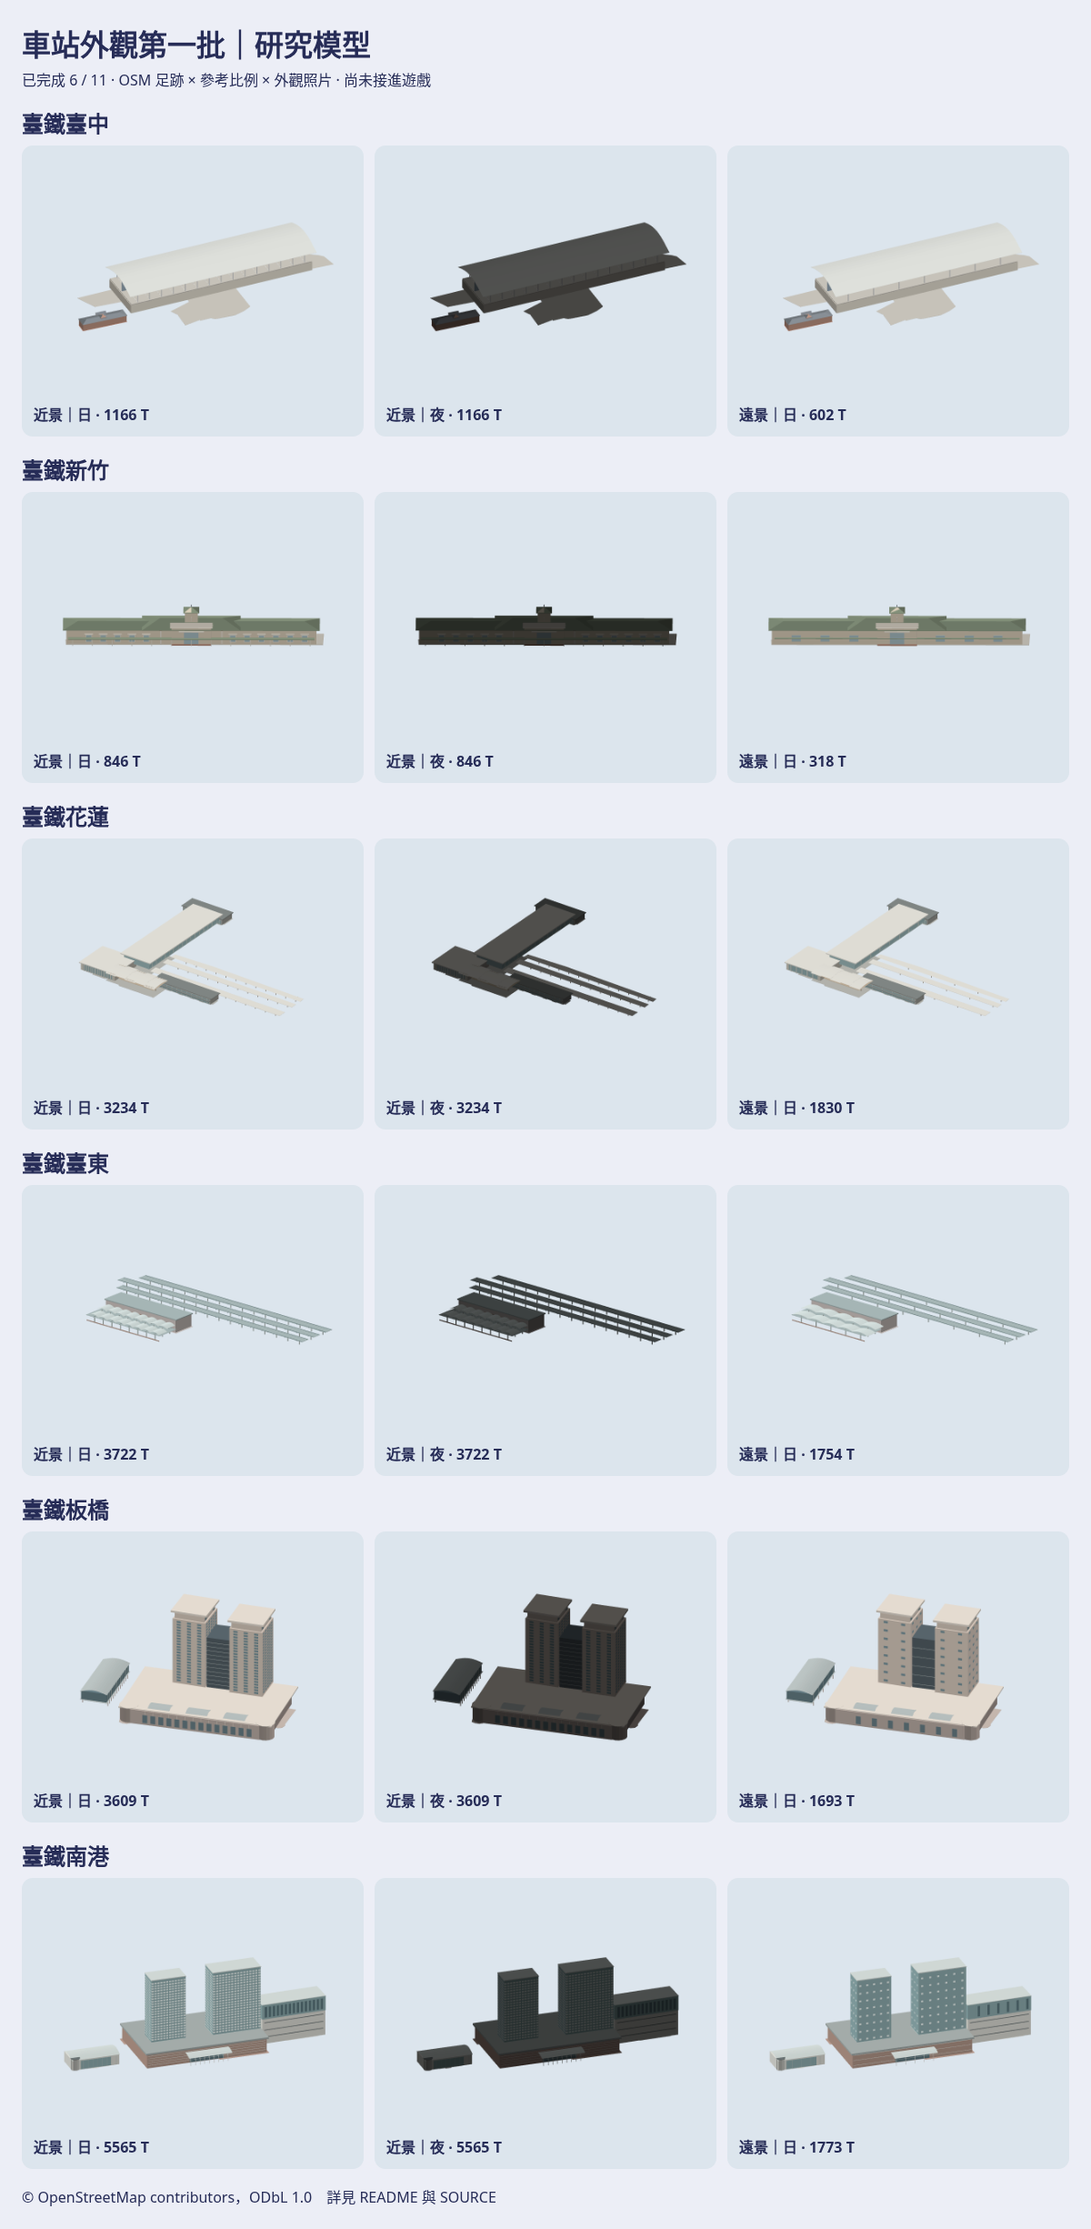
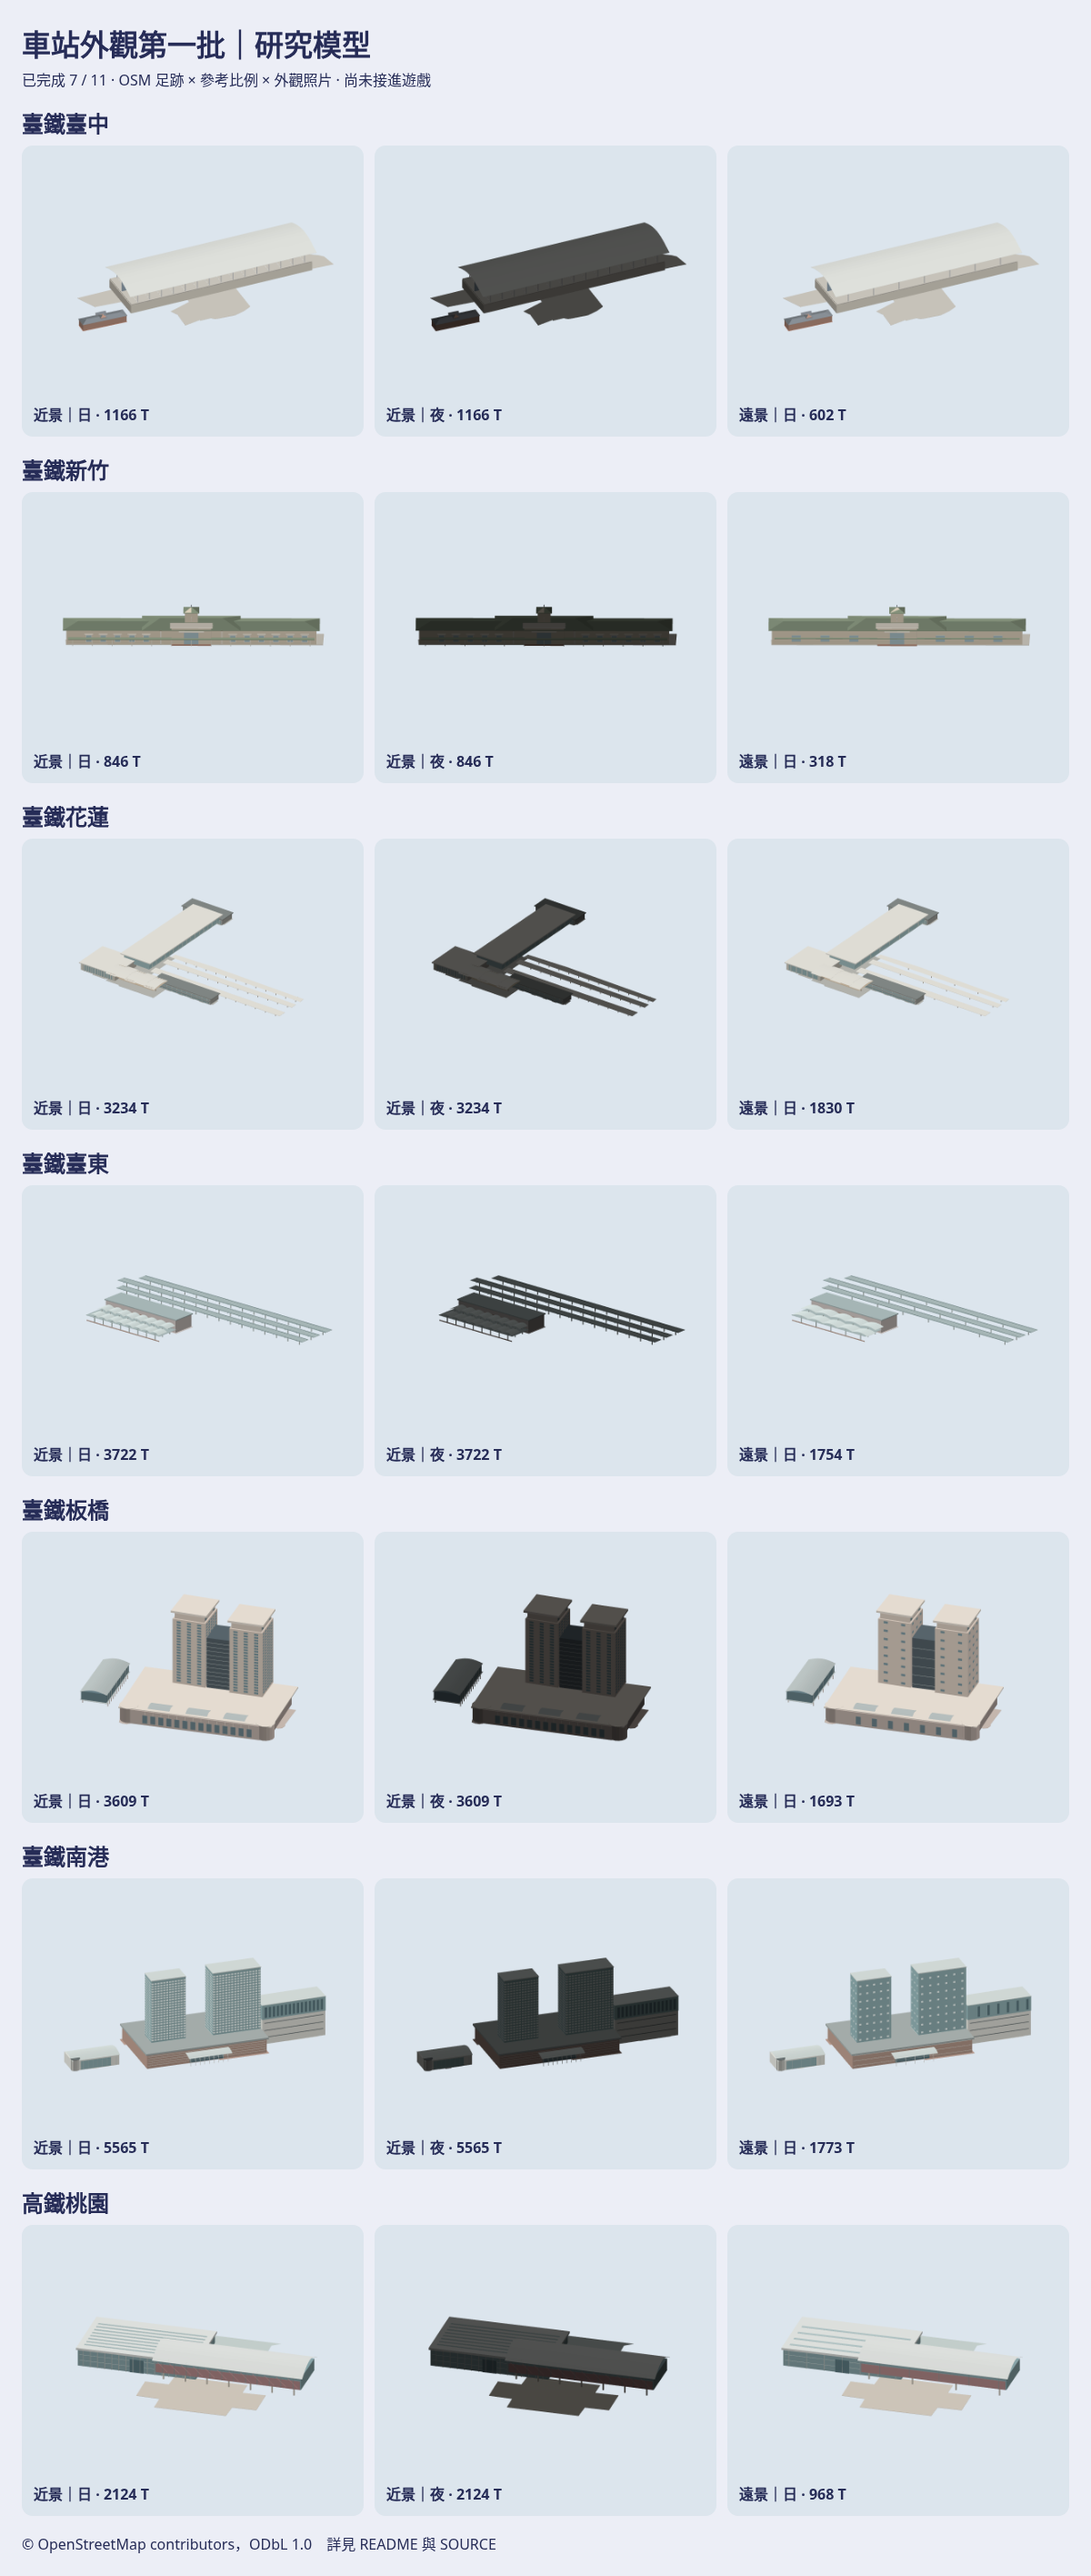
Add Taoyuan HSR exterior study
Agent: Codex

diff --git a/Sources/GamePresentation/Map3DStationExteriorBatch1.swift b/Sources/GamePresentation/Map3DStationExteriorBatch1.swift
@@ -3,7 +3,7 @@ import Foundation
 /// Isolated exterior study. No station catalog or live-map lookup calls this type.
 public enum Map3DStationExteriorBatch1 {
     public enum LevelOfDetail: Sendable { case near, far }
-    public enum Station: String, CaseIterable, Sendable { case taichungTRA = "tra-taichung", hsinchuTRA = "tra-hsinchu", hualienTRA = "tra-hualien", taitungTRA = "tra-taitung", banqiaoTRA = "tra-banqiao", nangangTRA = "tra-nangang" }
+    public enum Station: String, CaseIterable, Sendable { case taichungTRA = "tra-taichung", hsinchuTRA = "tra-hsinchu", hualienTRA = "tra-hualien", taitungTRA = "tra-taitung", banqiaoTRA = "tra-banqiao", nangangTRA = "tra-nangang", taoyuanHSR = "hsr-taoyuan" }
 
     public static func model(for station: Station, detail: LevelOfDetail) -> Map3DModelPack.Model {
         var builder = StationKitBuilder()
@@ -14,6 +14,7 @@ public enum Map3DStationExteriorBatch1 {
         case .taitungTRA: builder.taitungExteriorStudy(detail: detail)
         case .banqiaoTRA: builder.banqiaoExteriorStudy(detail: detail)
         case .nangangTRA: builder.nangangExteriorStudy(detail: detail)
+        case .taoyuanHSR: builder.taoyuanHSRExteriorStudy(detail: detail)
         }
         return .flat(named: "station-exterior-study-\(station.rawValue)-\(detail == .near ? "near" : "far")", from: builder.mesh)
     }
@@ -491,6 +492,28 @@ public enum Map3DStationExteriorBatch1 {
         (72.795, 0.956),
         (75.011, -11.364),
         (21.260, -21.027),
+    ]
+
+    // Taoyuan HSR and Airport MRT A18: osmtoday Taiwan PBF, 2026-11-06.
+    // Metres east/north from (121.214539, 25.01347985); © OpenStreetMap contributors, ODbL 1.0.
+    static let taoyuanHSRFootprint: [(Float, Float)] = [ // OSM way 23547222
+        (-18.067, -53.613), (-10.732, -45.584), (-4.585, -38.879),
+        (-1.370, -35.277), (15.810, -15.962), (30.975, 1.073),
+        (33.716, -1.418), (41.344, -8.012), (46.272, -12.137),
+        (62.243, 5.654), (86.296, -17.052), (70.717, -34.987),
+        (75.897, -39.869), (82.255, -45.851), (85.137, -48.553),
+        (69.669, -65.255), (51.612, -84.736), (35.893, -101.704),
+        (32.366, -98.524), (23.922, -91.386), (20.838, -88.772),
+        (4.031, -106.286), (-21.292, -82.534), (-4.907, -65.677),
+        (-7.578, -63.220), (-14.541, -56.837),
+    ]
+    static let taoyuanA18Footprint: [(Float, Float)] = [ // OSM way 560119012
+        (15.730, 106.286), (25.222, 97.368), (26.380, 99.503),
+        (38.341, 88.839), (-42.604, 0.128), (-30.885, -10.914),
+        (-28.013, -7.878), (-22.954, -12.526), (-27.237, -17.964),
+        (-30.703, -21.744), (-33.495, -24.813), (-34.422, -25.936),
+        (-50.957, -9.568), (-59.724, -18.931), (-75.584, -3.664),
+        (-86.296, -5.354), (-76.451, 5.754), (-68.420, 14.205),
     ]
 
 }
@@ -1091,5 +1114,78 @@ private extension StationKitBuilder {
         }
         add(.flat(named: "nangang-east-station", from: east.mesh),
             at: Map3DPoint(175.0, 0, 20.99), angle: 9.951 * .pi / 180)
+    }
+
+    mutating func taoyuanHSRExteriorStudy(detail: Map3DStationExteriorBatch1.LevelOfDetail) {
+        let roof = Map3DColor.rgb(0xE6E9E6)
+        let frame = Map3DColor.rgb(0xCBD6D3)
+        let stone = Map3DColor.rgb(0xD5CDC0)
+        let glass = Map3DColor.rgb(0x8EABB0)
+        let darkGlass = Map3DColor.rgb(0x607F86)
+        let skylight = Map3DColor.rgb(0xB6CACB)
+        let red = Map3DColor.rgb(0xB98E8E)
+        let steel = Map3DColor.rgb(0x8F9E9C)
+
+        footprint(Map3DStationExteriorBatch1.taoyuanHSRFootprint, color: stone)
+        // A18 is tagged min_level=2/layer=1, but no measured base height.
+        footprint(Map3DStationExteriorBatch1.taoyuanA18Footprint,
+                  color: frame, baseY: 8.0, height: 0.32)
+
+        // The 20 m hall is the reference display estimate. The flat, striped
+        // skylight roof and glass colonnade follow exterior photographs.
+        var hsr = StationKitBuilder()
+        hsr.box(0, 0.32, 0, 119, 69.5, 17.5, glass)
+        hsr.box(0, 17.82, 0, 121.7, 73.4, 2.18, roof)
+        for z in stride(from: Float(-27), through: 27, by: detail == .near ? 7 : 14) {
+            hsr.box(0, 19.9, z, 110, detail == .near ? 2.6 : 3.4, 0.16, skylight)
+            if detail == .near {
+                hsr.box(0, 20.06, z, 110, 0.15, 0.10, steel)
+            }
+        }
+        for x in stride(from: Float(-54), through: 54, by: detail == .near ? 7.2 : 18) {
+            for z: Float in [-35.1, 35.1] {
+                hsr.cylinder(x, 0.32, z, radius: 0.42, height: 17.5,
+                             color: frame, sides: detail == .near ? 8 : 6)
+            }
+        }
+        for y: Float in [6.2, 12.2] {
+            for z: Float in [-34.8, 34.8] {
+                hsr.box(0, y, z, 116, 0.16, 0.27, frame)
+            }
+        }
+        hsr.box(0, 0.32, -35.2, 14, 0.28, 13.8, darkGlass)
+        hsr.box(-58, 0.32, 0, 0.5, 69, 17.5, stone)
+        hsr.box(58, 0.32, 0, 0.5, 69, 17.5, stone)
+        add(.flat(named: "taoyuan-hsr-hall", from: hsr.mesh),
+            at: Map3DPoint(33.34, 0, 50.46), angle: 47.1966 * .pi / 180)
+
+        // The MRT concourse floats over its OSM outline. Its 8 m base,
+        // 22 m eaves and 30 m vault peak are illustrative, not OSM heights.
+        var a18 = StationKitBuilder()
+        for x in stride(from: Float(-66), through: 66, by: detail == .near ? 22 : 44) {
+            for z: Float in [-20, 20] {
+                a18.box(x, 0, z, 1.2, 1.2, 8, stone)
+            }
+        }
+        a18.box(0, 8.32, 0, 148, 47, 12.5, glass)
+        a18.box(0, 8.32, -23.55, 146, 0.25, 9.0, red)
+        a18.box(0, 8.32, 23.55, 146, 0.25, 8.0, stone)
+        for x in stride(from: Float(-66), through: 66, by: detail == .near ? 12 : 30) {
+            a18.box(x, 8.32, -23.78, 0.5, 0.2, 12.4, steel)
+            if detail == .near {
+                a18.beam(Map3DPoint(x - 5, 10, -23.9),
+                         Map3DPoint(x + 5, 19, -23.9), 0.42, red)
+            }
+        }
+        a18.canopy(0, 21.3, 0, length: 152, width: 52,
+                   rise: 8.7, color: roof)
+        for x in stride(from: Float(-66), through: 66, by: detail == .near ? 18 : 36) {
+            a18.beam(Map3DPoint(x, 21.6, -24.5),
+                     Map3DPoint(x, 27.8, 0), 0.32, steel)
+            a18.beam(Map3DPoint(x, 27.8, 0),
+                     Map3DPoint(x, 21.6, 24.5), 0.32, steel)
+        }
+        add(.flat(named: "taoyuan-a18", from: a18.mesh),
+            at: Map3DPoint(-15.42, 0, -33.94), angle: 47.7138 * .pi / 180)
     }
 }

diff --git a/Tests/GamePresentationTests/Map3DStationExteriorBatch1Tests.swift b/Tests/GamePresentationTests/Map3DStationExteriorBatch1Tests.swift
@@ -2,6 +2,43 @@ import XCTest
 @testable import GamePresentation
 
 final class Map3DStationExteriorBatch1Tests: XCTestCase {
+    func testTaoyuanHSRStudyKeepsHSRAndA18FootprintsSeparate() {
+        let near = Map3DStationExteriorBatch1.model(for: .taoyuanHSR, detail: .near)
+        let far = Map3DStationExteriorBatch1.model(for: .taoyuanHSR, detail: .far)
+        XCTAssertGreaterThan(near.triangleCount, far.triangleCount)
+        XCTAssertLessThanOrEqual(near.triangleCount, 6_000)
+        XCTAssertLessThanOrEqual(far.triangleCount, 2_500)
+        XCTAssertNil(Map3DStationKit.model(id: near.name))
+        XCTAssertNil(Map3DStationKit.model(id: far.name))
+        let outlines: [([(Float, Float)], Float)] = [
+            (Map3DStationExteriorBatch1.taoyuanHSRFootprint, 0.32),
+            (Map3DStationExteriorBatch1.taoyuanA18Footprint, 8.32)
+        ]
+        XCTAssertEqual(outlines[0].0.count, 26)
+        XCTAssertEqual(outlines[1].0.count, 18)
+        for (outline, top) in outlines {
+            for (east, north) in outline {
+                XCTAssertTrue(near.vertices.contains {
+                    abs($0.x - east) < 0.002 && abs($0.y + north) < 0.002
+                        && abs($0.z - top) < 0.002
+                })
+            }
+        }
+        XCTAssertEqual(near.maximum.z, 30, accuracy: 0.01)
+        let colours = Set(near.vertices.map(\.color))
+        let ordered = [UInt32(0xE6E9E6), 0xCBD6D3, 0xB6CACB,
+                       0x8EABB0, 0xB98E8E, 0x607F86].map(Map3DColor.rgb)
+        func luminance(_ colour: UInt32) -> Float {
+            Float(colour & 255) * 0.2126 + Float((colour >> 8) & 255) * 0.7152
+                + Float((colour >> 16) & 255) * 0.0722
+        }
+        for (lighter, darker) in zip(ordered, ordered.dropFirst()) {
+            XCTAssertTrue(colours.contains(lighter))
+            XCTAssertGreaterThan(luminance(lighter), luminance(darker))
+        }
+        XCTAssertTrue(colours.contains(ordered.last!))
+    }
+
     func testNangangStudyUsesFiveOSMWaysAndTaggedTowerHeights() {
         let near = Map3DStationExteriorBatch1.model(for: .nangangTRA, detail: .near)
         let far = Map3DStationExteriorBatch1.model(for: .nangangTRA, detail: .far)

diff --git a/docs/art/station-exteriors-batch1/README.md b/docs/art/station-exteriors-batch1/README.md
@@ -1,4 +1,4 @@
-# 車站外觀第一批 studies：第 6 次交付
+# 車站外觀第一批 studies：第 7 次交付
 
 這是獨立研究配方，沒有接到 `Map3DStationKit` 的站點選型、地圖或存檔。公開庫只有配方、測試與一張總覽；逐方向原生模型、GLB、日夜圖與離線檢視頁在私有素材庫的同名資料夾。
 
@@ -77,11 +77,21 @@
 
 外觀只看 Wikimedia Commons [2016 年忠孝東路側站體](https://commons.wikimedia.org/wiki/File:Nangang_Station_Building_face_to_Zhongxiao_East_Road_20160723b.jpg)、[2018 年 A／B 棟上段](https://commons.wikimedia.org/wiki/File:Nangang_Station_Building_A_%26_B_top_20180714.jpg)、[2012 年東側站房遠景](https://commons.wikimedia.org/wiki/File:Nangang_Station_view_from_Taipei_Extreme_Sports_Training_Center_20120909.jpg)、[東出口](https://commons.wikimedia.org/wiki/File:East_Exit,_Nangang_Station_20120909.jpg)，以及[三菱地所台灣南港開發案外觀](https://www.mectw.tw/project/investment/-MKzV0WreYKQtFywQCGo)。開發案頁面另列兩棟 30 層和商場 14 層，與 OSM 層數相符。照片不打包、不作貼圖。用現有 station kit 盒體、曲棚與圓柱組成淡色近／遠景，保留淺屋頂、紅褐牆、青灰玻璃與暗窗的明暗次序。近景 **5,565 三角**、遠景 **1,773 三角**；窗格、入口鋼架與東站房外形仍待作者核對。
 
-## 尚缺的五站
+## 已完成：高鐵桃園（含機捷 A18）
+
+| 部件 | OSM 足跡最小旋轉矩形 | 高度、屋頂與外觀判斷 |
+| --- | --- | --- |
+| 高鐵桃園站房 | [way 23547222](https://www.openstreetmap.org/way/23547222)，**121.821 × 73.541 m**，26 個不重複頂點；`building=train_station` | OSM 沒有 `height`、層數或屋頂標籤。約 **20 m** 平頂是參考展示高度推估；成排採光帶、長玻璃立面、白色柱廊依外觀照片。 |
+| 機捷 A18 高鐵桃園站 | [way 560119012](https://www.openstreetmap.org/way/560119012)，**153.716 × 52.474 m**，18 個不重複頂點；`building:levels=3`、`min_level=2`、`layer=1` | OSM 沒有 `height`、`min_height` 或屋頂標籤。架空基底約 **8 m**、簷約 **21–22 m**、弧棚最高約 **30 m** 全是參考展示比例推估；紅色立面、玻璃帶和鋼構弧棚依照片。 |
+
+兩個 way 的全部非閉合邊界頂點從 2026-11-06 下載的 osmtoday `asia/taiwan.pbf` 以 pyosmium 擷取，轉為局部公尺座標；原點為 121.214539°E、25.01347985°N。尺寸、長軸角及兩棟相對位置與參考庫 `Railway/taiwan-rail-reference-clean/source/rail-3d/assets/stations/taoyuan-hsr-v1/metadata.json` 核對；`blender-buildings-v1/taoyuan-hsr-v1/model.json` 僅量平頂站體與高架 A18 的比例，不使用原網格。OSM 輪廓 © OpenStreetMap contributors，ODbL 1.0。
+
+照片只看 Wikimedia Commons [高鐵站房斜向外觀](https://commons.wikimedia.org/wiki/File:THSR_Taoyuan_Station_Exterior.jpg)、[2020 年高鐵站房與採光帶](https://commons.wikimedia.org/wiki/File:THSR_Taoyuan_Station_2020-08-15.jpg)、[高鐵站房正面](https://commons.wikimedia.org/wiki/File:THSR-Taoyuan.JPG)、[A18 高架站紅色立面與弧棚](https://commons.wikimedia.org/wiki/File:高鐵桃園站(機場捷運)外觀THSR_Taoyuan.jpg) 及[站區空照](https://commons.wikimedia.org/wiki/File:高鐵桃園站空照圖.jpg)。另核對[桃園捷運 A18 官方站頁](https://www.tymetro.com.tw/tymetro-new/tw/_pages/travel-guide/A18) 的站區配置，但不拿配置圖當比例尺。照片不打包、不作貼圖。現有 station kit 的盒體、曲棚、圓柱及柱列分件組成兩個獨立模型部分，最後調為淡灰白、淡砂牆、青灰玻璃與淡紅立面，保留明暗次序。採光帶節距、柱距、玻璃分格、弧棚曲率及所有估計高度仍待作者核對。近景 **2,124 三角**、遠景 **968 三角**。
+
+## 尚缺的四站
 
 | 站 | 來源與目前量到的部件足跡（m） | 還缺的核對 |
 | --- | --- | --- |
-| 高鐵桃園 | 參考庫 `stations/taoyuan-hsr-v1/metadata.json` 的 OSM 輪廓：高鐵桃園 122 × 74（23547222）；機捷 A18 154 × 52（560119012） | 挑簷、採光頂與真實高度。 |
 | 高鐵新竹 | 參考庫 `stations/hsinchu-hsr-v1/metadata.json` 的 OSM 輪廓：高鐵新竹 344 × 101（321663134）；六家 48 × 34（321663135） | 長曲頂與真實高度。 |
 | 高鐵台中（含新烏日） | 參考庫 `stations/xinwuri-complex-v1/metadata.json` 的 OSM 輪廓：高鐵臺中 360 × 96（544377825）；新烏日 210 × 84（337921979）；中捷高鐵臺中 180 × 22（862779522）；轉乘通廊 33 × 10（862779521）；轉乘通廊 48 × 12（862779520） | 高鐵／臺鐵／中捷共構關係與各屋頂、真實高度。 |
 | 高鐵台南 | 參考庫 `stations/tainan-hsr-v1/metadata.json` 的 OSM 輪廓：高鐵臺南 114 × 57（r9351022:1）；高鐵月台棚 336 × 14（r9351022:0）；高鐵月台棚 332 × 11（266850895）；沙崙 149 × 27（316034163） | 挑簷、月台棚與真實高度。 |
